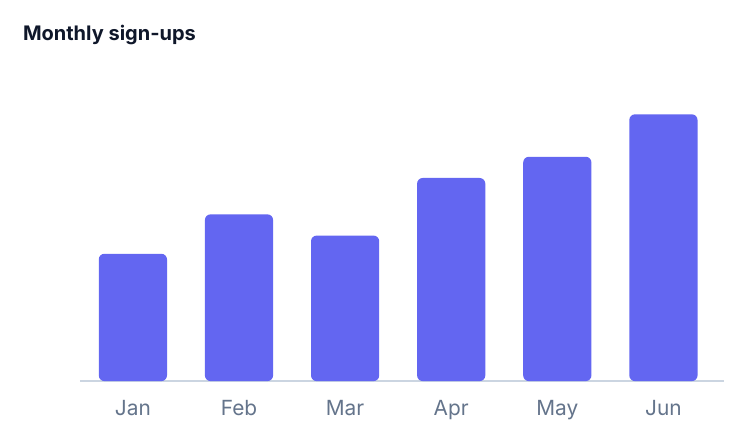
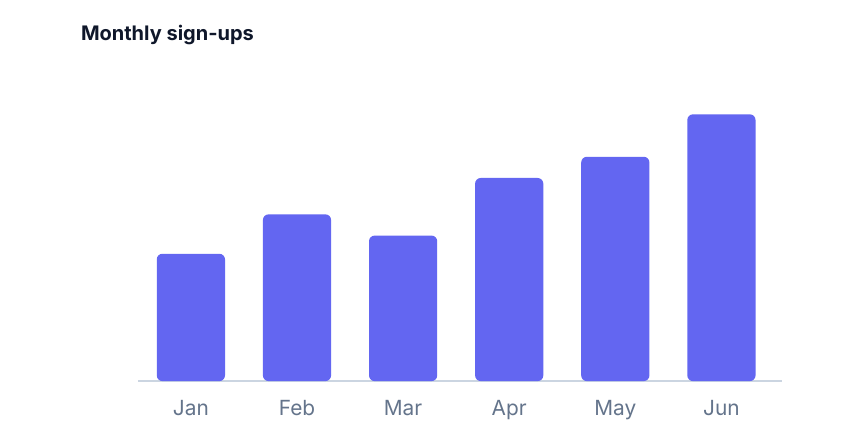
feat(site): gallery tiles for decorators and their variants
One-page images are centred on their page's width, so narrow components
keep the same scale as wide ones in the grid.

diff --git a/site/gallery/render.php b/site/gallery/render.php
@@ -61,8 +61,12 @@ function render(string $source, string $image, int $pages): void
             throw new \RuntimeException(sprintf('renders %d pages, the manifest says %d; make its page taller', count($files), $pages));
         }
         $images = array_map(static fn (string $f): \GdImage => imagecreatefrompng($f) ?: throw new \RuntimeException("cannot read $f"), $files);
-        $result = $pages === 1 ? $images[0] : Raster::sideBySide($images, 32, 1);
-        $result = Raster::trim($result, 24);
+        if ($pages === 1) {
+            // Cropped to the content, then centred on the page's width, so a narrow component keeps the scale of a wide one.
+            $result = Raster::centerOn(Raster::trim($images[0], 24), imagesx($images[0]));
+        } else {
+            $result = Raster::trim(Raster::sideBySide($images, 32, 1), 24);
+        }
         $partial = $image . '.tmp';
         if (!imagepng($result, $partial, 9) || !rename($partial, $image)) {
             @unlink($partial);

diff --git a/site/gallery/sources/callout.php b/site/gallery/sources/callout.php
@@ -1,0 +1,17 @@
+<?php
+
+declare(strict_types=1);
+
+use Papercut\{Document, Page, Column};
+use Papercut\Decorator\{Callout};
+
+use function Papercut\{in, pt};
+
+return Document::make(Page::size(in(6), in(8))->margin(in(0.25))->body(
+    Column::make(
+        Callout::make('Read each statement before you answer.')->tone('note')->title('Note'),
+        Callout::make('Drafts are saved every minute, so you can come back later.')->tone('tip')->title('Tip'),
+        Callout::make('Your session ends after 30 minutes without activity.')->tone('warning')->title('Warning'),
+        Callout::make('Answers cannot be changed once submitted.')->tone('danger')->title('Danger'),
+    )->gap(pt(8)),
+))->createdAt(new DateTimeImmutable('2026-01-01T00:00:00Z'));

diff --git a/site/gallery/Raster.php b/site/gallery/Raster.php
@@ -64,6 +64,18 @@ final class Raster
         return $out;
     }
 
+    /** Centres the image horizontally on a white canvas at least $width wide, so images from same-width pages share one scale. */
+    public static function centerOn(\GdImage $img, int $width): \GdImage
+    {
+        if (imagesx($img) >= $width) {
+            return $img;
+        }
+        $out = self::white($width, imagesy($img));
+        imagecopy($out, $img, intdiv($width - imagesx($img), 2), 0, 0, 0, imagesx($img), imagesy($img));
+
+        return $out;
+    }
+
     private static function white(int $w, int $h): \GdImage
     {
         $img = imagecreatetruecolor(max(1, $w), max(1, $h));

diff --git a/site/gallery/sources/badge.outline.php b/site/gallery/sources/badge.outline.php
@@ -1,0 +1,18 @@
+<?php
+
+declare(strict_types=1);
+
+use Papercut\{Document, Page, Row};
+use Papercut\Decorator\{Badge};
+
+use function Papercut\{in, pt};
+
+return Document::make(Page::size(in(6), in(8))->margin(in(0.25))->body(
+    Row::make(
+        Badge::make('Neutral')->variant('outline'),
+        Badge::make('Note')->tone('note')->variant('outline'),
+        Badge::make('Tip')->tone('tip')->variant('outline'),
+        Badge::make('Warning')->tone('warning')->variant('outline'),
+        Badge::make('Danger')->tone('danger')->variant('outline'),
+    )->gap(pt(6)),
+))->createdAt(new DateTimeImmutable('2026-01-01T00:00:00Z'));

diff --git a/site/gallery/sources/choice-list.php b/site/gallery/sources/choice-list.php
@@ -1,0 +1,15 @@
+<?php
+
+declare(strict_types=1);
+
+use Papercut\{Document, Page, Row};
+use Papercut\Decorator\{ChoiceList};
+
+use function Papercut\{in, pt};
+
+return Document::make(Page::size(in(6), in(8))->margin(in(0.25))->body(
+    Row::make(
+        ChoiceList::checkbox()->option('Library catalogue', selected: true)->option('Web search', selected: true)->option('Ask a colleague')->emphasizeSelected()->grow(1),
+        ChoiceList::radio()->option('Daily')->option('Weekly', selected: true)->option('Rarely')->emphasizeSelected()->grow(1),
+    )->gap(pt(24)),
+))->createdAt(new DateTimeImmutable('2026-01-01T00:00:00Z'));

diff --git a/site/gallery/sources/card.flat.php b/site/gallery/sources/card.flat.php
@@ -1,0 +1,16 @@
+<?php
+
+declare(strict_types=1);
+
+use Papercut\{Document, Page, Text};
+use Papercut\Decorator\{Card, KeyValueList};
+
+use function Papercut\{in, pt};
+
+return Document::make(Page::size(in(6), in(8))->margin(in(0.25))->body(
+    Card::make(
+        Text::make('Jane Smith')->bold(),
+        Text::make('Product designer, joined in March. Leads the onboarding redesign and the new billing pages.')->color('slate-600'),
+        KeyValueList::make()->row('Team', 'Growth')->row('Location', 'Lisbon'),
+    )->title('Respondent')->variant('flat'),
+))->createdAt(new DateTimeImmutable('2026-01-01T00:00:00Z'));

diff --git a/site/gallery/sources/card.php b/site/gallery/sources/card.php
@@ -1,0 +1,16 @@
+<?php
+
+declare(strict_types=1);
+
+use Papercut\{Document, Page, Text};
+use Papercut\Decorator\{Card, KeyValueList};
+
+use function Papercut\{in, pt};
+
+return Document::make(Page::size(in(6), in(8))->margin(in(0.25))->body(
+    Card::make(
+        Text::make('Jane Smith')->bold(),
+        Text::make('Product designer, joined in March. Leads the onboarding redesign and the new billing pages.')->color('slate-600'),
+        KeyValueList::make()->row('Team', 'Growth')->row('Location', 'Lisbon'),
+    )->title('Respondent'),
+))->createdAt(new DateTimeImmutable('2026-01-01T00:00:00Z'));

diff --git a/site/gallery/sources/section.large.php b/site/gallery/sources/section.large.php
@@ -1,0 +1,15 @@
+<?php
+
+declare(strict_types=1);
+
+use Papercut\{Document, Page, Text};
+use Papercut\Decorator\{Field, Section};
+
+use function Papercut\{in, pt};
+
+return Document::make(Page::size(in(6), in(8))->margin(in(0.25))->body(
+    Section::make(
+        Text::p('Tell us how you usually find sources for a new project, and which tools you rely on most.'),
+        Field::make('Library catalogue first, then a general web search.')->label('Answer'),
+    )->number('3')->title('Search habits')->rule()->variant('large'),
+))->createdAt(new DateTimeImmutable('2026-01-01T00:00:00Z'));

diff --git a/site/gallery/sources/section.php b/site/gallery/sources/section.php
@@ -1,0 +1,15 @@
+<?php
+
+declare(strict_types=1);
+
+use Papercut\{Document, Page, Text};
+use Papercut\Decorator\{Field, Section};
+
+use function Papercut\{in, pt};
+
+return Document::make(Page::size(in(6), in(8))->margin(in(0.25))->body(
+    Section::make(
+        Text::p('Tell us how you usually find sources for a new project, and which tools you rely on most.'),
+        Field::make('Library catalogue first, then a general web search.')->label('Answer'),
+    )->number('3')->title('Search habits')->rule(),
+))->createdAt(new DateTimeImmutable('2026-01-01T00:00:00Z'));

diff --git a/site/gallery/sources/stat.php b/site/gallery/sources/stat.php
@@ -1,0 +1,16 @@
+<?php
+
+declare(strict_types=1);
+
+use Papercut\{Document, Page, Row};
+use Papercut\Decorator\{Stat};
+
+use function Papercut\{in, pt};
+
+return Document::make(Page::size(in(6), in(8))->margin(in(0.25))->body(
+    Row::make(
+        Stat::make('$48,200')->label('Revenue')->note('Up 12% on Q2')->grow(1),
+        Stat::make('1,204')->label('Orders')->note('38 refunded')->grow(1),
+        Stat::make('4.7')->label('Rating')->note('from 312 reviews')->grow(1),
+    )->gap(pt(12)),
+))->createdAt(new DateTimeImmutable('2026-01-01T00:00:00Z'));

diff --git a/site/gallery/sources/key-value-list.php b/site/gallery/sources/key-value-list.php
@@ -1,0 +1,16 @@
+<?php
+
+declare(strict_types=1);
+
+use Papercut\{Document, Page, Text};
+use Papercut\Decorator\{Badge, KeyValueList};
+
+use function Papercut\{in, pt};
+
+return Document::make(Page::size(in(6), in(8))->margin(in(0.25))->body(
+    KeyValueList::make()
+        ->row('Respondent', 'Jane Smith')
+        ->row('Submitted', '2 March 2026, 14:30')
+        ->row('Course', 'Introduction to Research Methods')
+        ->row('Status', Badge::make('Complete')->tone('tip')),
+))->createdAt(new DateTimeImmutable('2026-01-01T00:00:00Z'));

diff --git a/site/gallery/sources/badge.php b/site/gallery/sources/badge.php
@@ -1,0 +1,18 @@
+<?php
+
+declare(strict_types=1);
+
+use Papercut\{Document, Page, Row};
+use Papercut\Decorator\{Badge};
+
+use function Papercut\{in, pt};
+
+return Document::make(Page::size(in(6), in(8))->margin(in(0.25))->body(
+    Row::make(
+        Badge::make('Neutral'),
+        Badge::make('Note')->tone('note'),
+        Badge::make('Tip')->tone('tip'),
+        Badge::make('Warning')->tone('warning'),
+        Badge::make('Danger')->tone('danger'),
+    )->gap(pt(6)),
+))->createdAt(new DateTimeImmutable('2026-01-01T00:00:00Z'));
